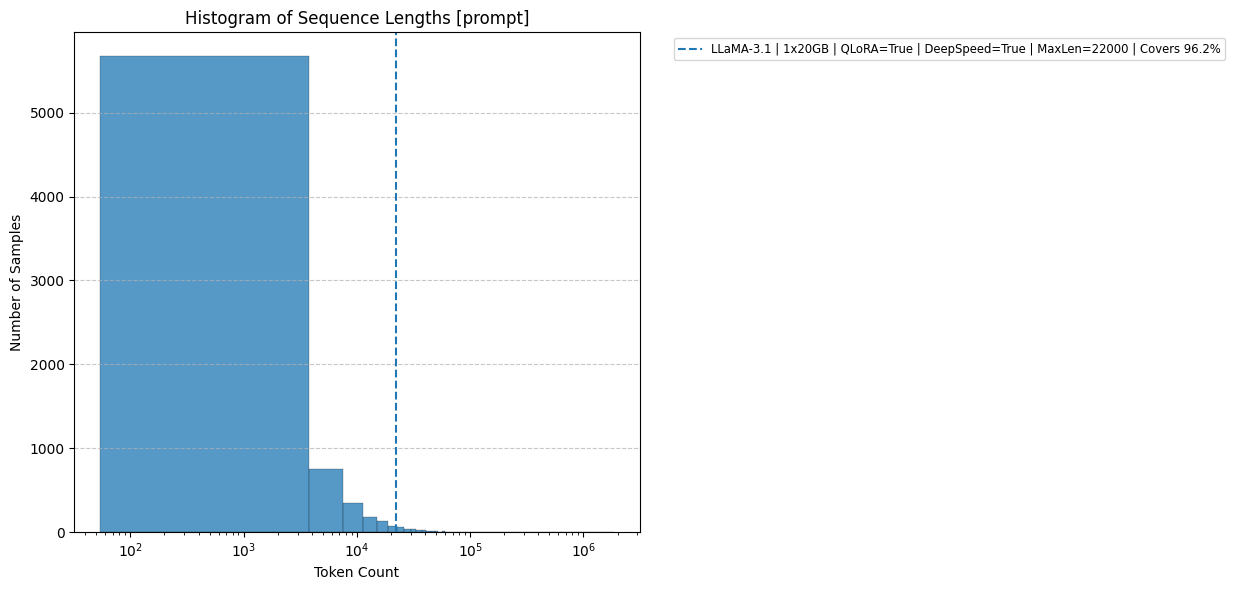
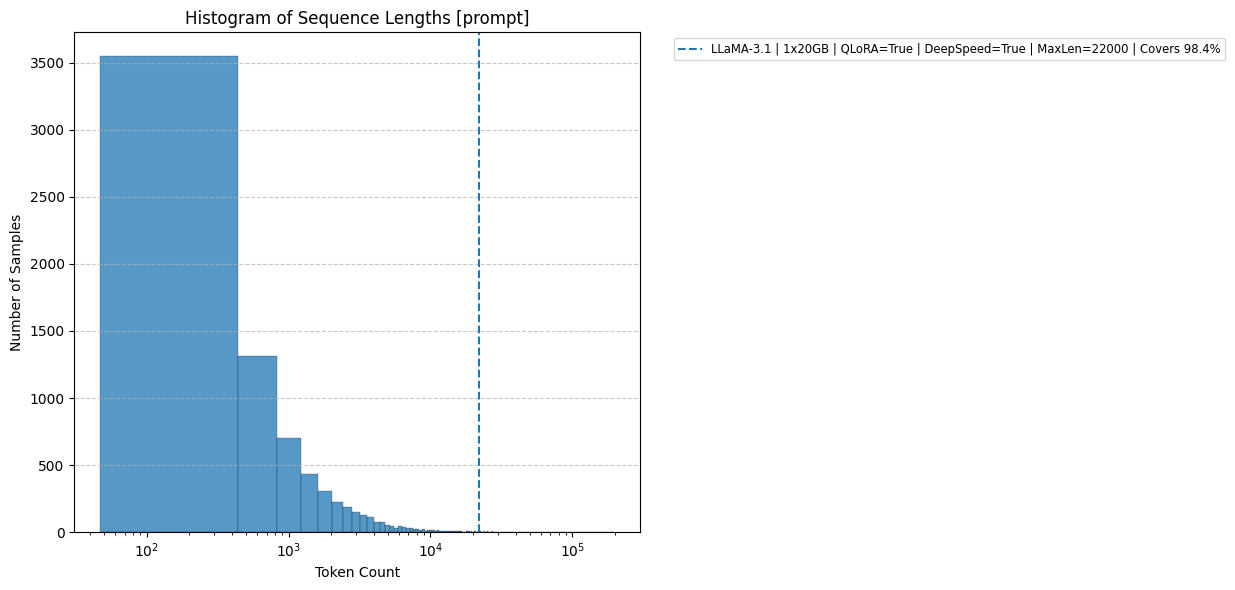
modify dataset name in config

diff --git a/analysis/token_length_violin.py b/analysis/token_length_violin.py
@@ -171,4 +171,4 @@ if __name__ == "__main__":
     main(args.dataset, args.model, args.field, args.output, args.logy, args.configs)
 
 
-# python /speed-scratch/a_s87063/repos/perf-pilot/analysis/token_length_violin.py --dataset /speed-scratch/a_s87063/repos/perf-pilot/datasets/apachejit/apachejit_small_llm_struc.jsonl --model /speed-scratch/a_s87063/repos/perf-pilot/LLMs/snapshots/meta-llama/Llama-3.1-8B --configs /speed-scratch/a_s87063/repos/perf-pilot/analysis/seq_len_confis.jsonl --field prompt --logy --output /speed-scratch/a_s87063/repos/perf-pilot/analysis/output
+# python /speed-scratch/a_s87063/repos/perf-pilot/analysis/token_length_violin.py --dataset /speed-scratch/a_s87063/repos/perf-pilot/datasets/jit_defects4j/jit_defects4j_small_llm_struc.jsonl --model /speed-scratch/a_s87063/repos/perf-pilot/LLMs/snapshots/meta-llama/Llama-3.1-8B --configs /speed-scratch/a_s87063/repos/perf-pilot/analysis/seq_len_confis.jsonl --field prompt --logy --output /speed-scratch/a_s87063/repos/perf-pilot/analysis/output
